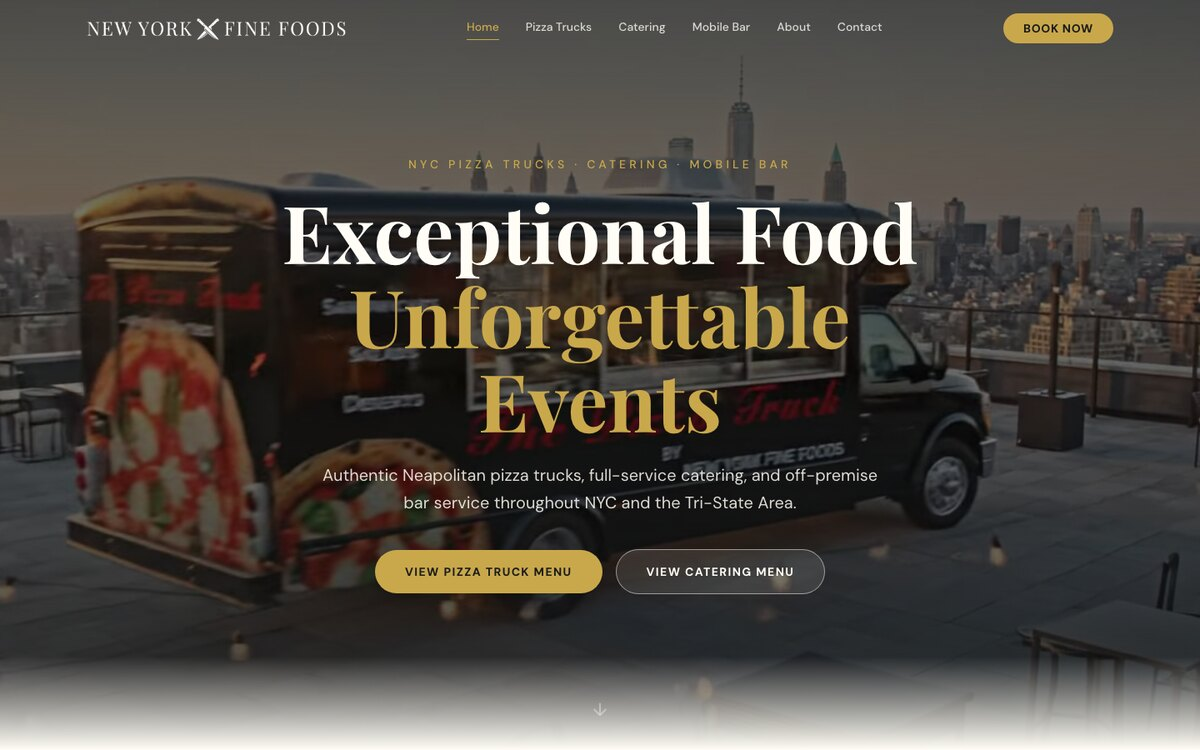
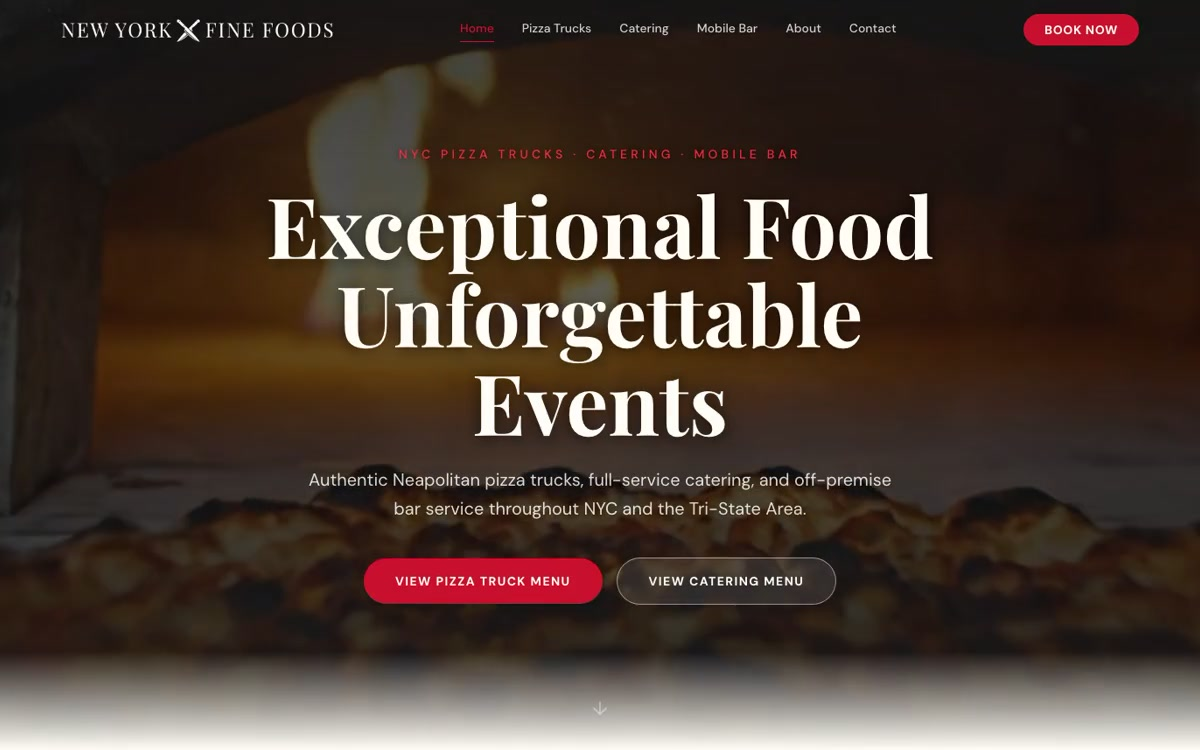
add moving video product

diff --git a/index.html b/index.html
@@ -203,56 +203,31 @@
 							<p class="nrg-work__desc">An AI-powered shipping companion that sizes items from a photo, finds the right box with a real-time 3D packing view, and compares live UPS, FedEx, and USPS rates.</p>
 						</div>
 					</a>
-					<a class="nrg-work__item" href="https://vintus.com" target="_blank" rel="noopener" data-reveal>
-							<div class="nrg-work__img">
-								<picture>
-									<source srcset="assets/img/portfolio/vintus.webp" type="image/webp">
-									<img src="assets/img/portfolio/vintus.jpg" alt="Vintus — wine-import e-commerce platform" width="1200" height="750" loading="lazy" decoding="async">
-								</picture>
-							</div>
-							<div class="nrg-work__meta">
-								<span class="nrg-label">2026 · WEB · E-COMMERCE</span>
-								<h3 class="nrg-work__name">Vintus</h3>
-								<p class="nrg-work__desc">The e-commerce platform for a leading wine import company — inventory management, order processing, and customer relationship tools.</p>
-							</div>
-						</a>
-						<a class="nrg-work__item" href="https://landscapedrainageproz.com" target="_blank" rel="noopener" data-reveal>
-							<div class="nrg-work__img">
-								<picture>
-									<source srcset="assets/img/portfolio/landscapedrainage.webp" type="image/webp">
-									<img src="assets/img/portfolio/landscapedrainage.jpg" alt="Landscape Drainage Proz — Shopify storefront for drainage products" width="1200" height="750" loading="lazy" decoding="async">
-								</picture>
-							</div>
-							<div class="nrg-work__meta">
-								<span class="nrg-label">2026 · WEB · SHOPIFY</span>
-								<h3 class="nrg-work__name">Landscape Drainage Proz</h3>
-								<p class="nrg-work__desc">A Shopify storefront with SEO and conversion work that tripled the client's online sales.</p>
-							</div>
-						</a>
-						<a class="nrg-work__item" href="https://view.officeapps.live.com/op/view.aspx?src=https%3A%2F%2Fneuragul.com%2Fassets%2Fdocs%2Frwd-pipeline-portfolio.pptx" target="_blank" rel="noopener" data-reveal>
-							<div class="nrg-work__img">
-								<picture>
-									<source srcset="assets/img/portfolio/rwd-pipeline.webp" type="image/webp">
-									<img src="assets/img/portfolio/rwd-pipeline.jpg" alt="The Real-World Data (RWD) Pipeline — product case-study deck" width="1200" height="750" loading="lazy" decoding="async">
-								</picture>
-							</div>
-							<div class="nrg-work__meta">
-								<span class="nrg-label">PRODUCT · DATA · 0→1</span>
-								<h3 class="nrg-work__name">Real-World Data Pipeline</h3>
-								<p class="nrg-work__desc">Led Product Management at Freenome for a 0→1 ETL pipeline that standardized diverse real-world data into a single Common Data Model for early cancer detection.</p>
-							</div>
-						</a>
-						<a class="nrg-work__item" href="https://www.newyorkfinefoods.com" target="_blank" rel="noopener" data-reveal>
+					<a class="nrg-work__item" href="https://www.newyorkfinefoods.com" target="_blank" rel="noopener" data-reveal>
 						<div class="nrg-work__img">
-							<picture>
-								<source srcset="assets/img/portfolio/nyff.webp" type="image/webp">
+							<video class="nrg-work__video" width="1200" height="750" autoplay muted loop playsinline preload="metadata" poster="assets/img/portfolio/nyff.jpg" aria-label="New York Fine Foods — cinematic moving hero from the live site">
+								<source src="assets/video/nyff-hero.webm" type="video/webm">
+								<source src="assets/video/nyff-hero.mp4" type="video/mp4">
 								<img src="assets/img/portfolio/nyff.jpg" alt="New York Fine Foods — catering and events website" width="1200" height="750" loading="lazy" decoding="async">
-							</picture>
+							</video>
 						</div>
 						<div class="nrg-work__meta">
 							<span class="nrg-label">2026 · WEB · CLIENT SITE</span>
 							<h3 class="nrg-work__name">New York Fine Foods</h3>
 							<p class="nrg-work__desc">A cinematic site for a NYC catering, pizza-truck, and mobile-bar brand — media galleries, service menus, and booking inquiries.</p>
+						</div>
+					</a>
+					<a class="nrg-work__item" href="https://vintus.com" target="_blank" rel="noopener" data-reveal>
+						<div class="nrg-work__img">
+							<picture>
+								<source srcset="assets/img/portfolio/vintus.webp" type="image/webp">
+								<img src="assets/img/portfolio/vintus.jpg" alt="Vintus — wine-import e-commerce platform" width="1200" height="750" loading="lazy" decoding="async">
+							</picture>
+						</div>
+						<div class="nrg-work__meta">
+							<span class="nrg-label">2026 · WEB · E-COMMERCE</span>
+							<h3 class="nrg-work__name">Vintus</h3>
+							<p class="nrg-work__desc">The e-commerce platform for a leading wine import company — inventory management, order processing, and customer relationship tools.</p>
 						</div>
 					</a>
 					<article class="nrg-work__item" data-reveal>
@@ -268,6 +243,32 @@
 							<p class="nrg-work__desc">Commission-free online ordering that plugs into a restaurant's existing Square POS — orders, payments, and SMS updates, with no third-party fees.</p>
 						</div>
 					</article>
+					<a class="nrg-work__item" href="https://view.officeapps.live.com/op/view.aspx?src=https%3A%2F%2Fneuragul.com%2Fassets%2Fdocs%2Frwd-pipeline-portfolio.pptx" target="_blank" rel="noopener" data-reveal>
+						<div class="nrg-work__img">
+							<picture>
+								<source srcset="assets/img/portfolio/rwd-pipeline.webp" type="image/webp">
+								<img src="assets/img/portfolio/rwd-pipeline.jpg" alt="The Real-World Data (RWD) Pipeline — product case-study deck" width="1200" height="750" loading="lazy" decoding="async">
+							</picture>
+						</div>
+						<div class="nrg-work__meta">
+							<span class="nrg-label">PRODUCT · DATA · 0→1</span>
+							<h3 class="nrg-work__name">Real-World Data Pipeline</h3>
+							<p class="nrg-work__desc">Led Product Management at Freenome for a 0→1 ETL pipeline that standardized diverse real-world data into a single Common Data Model for early cancer detection.</p>
+						</div>
+					</a>
+					<a class="nrg-work__item" href="https://landscapedrainageproz.com" target="_blank" rel="noopener" data-reveal>
+						<div class="nrg-work__img">
+							<picture>
+								<source srcset="assets/img/portfolio/landscapedrainage.webp" type="image/webp">
+								<img src="assets/img/portfolio/landscapedrainage.jpg" alt="Landscape Drainage Proz — Shopify storefront for drainage products" width="1200" height="750" loading="lazy" decoding="async">
+							</picture>
+						</div>
+						<div class="nrg-work__meta">
+							<span class="nrg-label">2026 · WEB · SHOPIFY</span>
+							<h3 class="nrg-work__name">Landscape Drainage Proz</h3>
+							<p class="nrg-work__desc">A Shopify storefront with SEO and conversion work that tripled the client's online sales.</p>
+						</div>
+					</a>
 				</div>
 			</div>
 		</section>

diff --git a/assets/css/refresh.css b/assets/css/refresh.css
@@ -794,14 +794,16 @@ img { display: block; max-width: 100%; }
        the image's own background is a similar dark tone. */
     border: 1px solid var(--rule);
 }
-.nrg-work__img img {
+.nrg-work__img img,
+.nrg-work__img video {
     width: 100%;
     height: 100%;
     object-fit: cover;
     transition: transform 600ms cubic-bezier(0.2, 0.7, 0.2, 1), filter 300ms ease;
     filter: brightness(0.8);
 }
-.nrg-work__item:hover .nrg-work__img img {
+.nrg-work__item:hover .nrg-work__img img,
+.nrg-work__item:hover .nrg-work__img video {
     transform: scale(1.03);
     filter: brightness(1);
 }